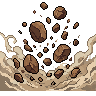
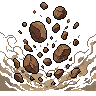
Estudio: animaciones de los 69 ataques (3 rehechas)
Claude-Session: https://claude.ai/code/session_01CbjX1Jp4CqY9crVcrZtYX4

diff --git a/estudio/ataques/conceptos.py b/estudio/ataques/conceptos.py
@@ -1,7 +1,7 @@
 # Concepto visual de cada ataque: (vista, descripción del efecto, animación)
 # vista: lado = de perfil hacia la izquierda; arriba = visto desde arriba (efectos en el suelo); frente = de frente
 C = {
- 'embestida': ('lado', "a burst of white and beige speed lines and a small dust cloud in the shape of a forward charge, motion streaks pointing left", "speed lines streaking to the left and fading"),
+ 'embestida': ('lado', "a burst of white and beige speed lines and a small dust cloud in the shape of a forward charge, motion streaks pointing left", "the same beige and white speed lines streaking to the left and fading out, keeping the same colors, no red"),
  'zarpazo': ('lado', "three curved white claw slash marks in a quick arc, sharp bright edges with a soft glow", "the three claw slashes swiping down in an arc and fading"),
  'rugido': ('frente', "concentric jagged sound shockwave rings in pale yellow and white bursting outward from a center, angry roar symbols", "the roar shockwaves pulsing outward"),
  'acometida': ('lado', "a powerful white comet-like rush aura with long trailing speed streaks and swirling dust, pointing left", "the rush aura surging forward with streaks"),
@@ -37,7 +37,7 @@ C = {
  'relampago': ('lado', "a streak of yellow lightning aura with sparks in the shape of a fast forward rush pointing left", "the lightning rush crackling forward"),
  'lanzarrocas': ('lado', "a chunky grey-brown boulder with cracks and small pebbles trailing, flying left", "the rock tumbling"),
  'golpe_roca': ('lado', "a heavy stone fist impact with shattering rock fragments and dust", "the rock impact shattering"),
- 'avalancha': ('frente', "a cascade of large and small brown boulders falling from above with dust clouds", "the boulders tumbling down"),
+ 'avalancha': ('frente', "a cascade of large and small brown boulders falling from above with dust clouds", "the same boulders tumbling down, transparent background around them, no ground and no square background"),
  'coraza': ('frente', "a hexagonal armor shield of grey stone plates forming around an empty center with a golden glint", "the stone plates assembling and shining"),
  'terremoto': ('arriba', "top-down view of the ground cracking in a radial pattern with brown shockwave ring and rising dust", "the cracks spreading and shaking"),
  'pedrisco': ('lado', "three sharp grey stones in a fan spread, flying left", "the stones spinning"),
@@ -61,7 +61,7 @@ C = {
  'garra_umbria': ('lado', "three dark purple shadow claw slashes with black wisps", "the shadow claws slashing and dissolving"),
  'confusion': ('lado', "a wobbling pink and purple psychic wave ring with spirals, flying left", "the psychic wave wobbling"),
  'psicorrayo': ('lado', "a horizontal beam of rippling pink and violet psychic energy rings flowing from right to left", "the psychic beam rippling"),
- 'barrera': ('frente', "a translucent pink hexagonal force field dome with shimmering lines, empty center", "the barrier shimmering"),
+ 'barrera': ('frente', "a translucent pink hexagonal force field dome with shimmering lines, empty center", "the same pink dome barrier gently shimmering with a light ripple, keeping its shape and colors in every frame"),
  'onda_mental': ('arriba', "top-down view of a pulsing ring of pink psychic energy with spirals", "the psychic ring pulsing outward"),
  'teletransporte': ('frente', "a sparkling pink and white teleport flash with vertical light streaks and stars", "the teleport flash sparkling and vanishing"),
  'psiquico': ('frente', "a distortion burst of pink and violet psychic force with warped rings around a bright center", "the psychic force warping and pulsing"),
